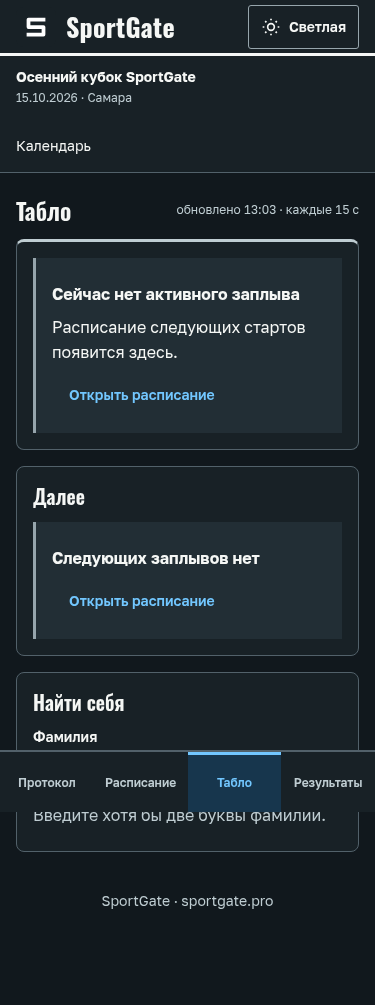
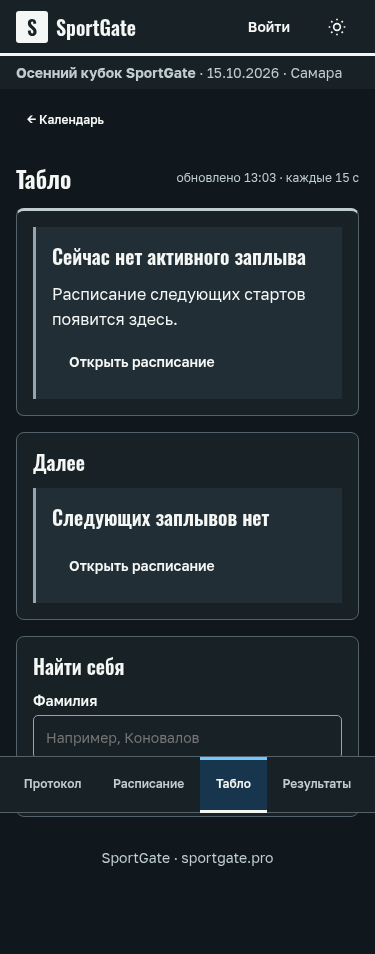
fix(public): address live board review and integrate shared shell

diff --git a/sport-platform/frontend/src/features/public/LivePage.module.css b/sport-platform/frontend/src/features/public/LivePage.module.css
@@ -1,8 +1,6 @@
 .page {
   color: var(--color-text);
   background: var(--surface-page);
-  max-width: calc(var(--space-16) * 15);
-  margin-inline: auto;
   min-width: 0;
 }
 .pageHeading,
@@ -253,15 +251,27 @@
 .delay {
   margin-bottom: var(--space-4);
 }
-.skeleton {
-  display: grid;
-  gap: var(--space-2);
+
+.page .athlete :global(abbr[tabindex]) {
+  display: inline-flex;
+  align-items: center;
+  min-width: var(--tap-target);
+  min-height: var(--tap-target);
 }
-.skeleton > div {
-  height: var(--control-h);
-  background: var(--surface-2);
-  border-radius: var(--radius-sm);
+
+.lanes.lanes thead :is(th:nth-child(2), th:nth-child(4)) {
+  text-align: start;
 }
+.stopwatch > span {
+  display: inline-flex;
+  align-items: baseline;
+  justify-content: flex-end;
+  line-height: var(--line-height-body);
+}
+.stopwatch > span > small {
+  line-height: var(--line-height-body);
+}
+
 @media (min-width: 768px) {
   .card {
     padding: var(--space-6);
@@ -288,6 +298,10 @@
   .lanes :is(th, td):nth-child(4) {
     width: 20%;
   }
+
+  .lanes .mobile {
+    display: none;
+  }
 }
 @media (min-width: 1024px) {
   .grid {
@@ -298,9 +312,6 @@
   }
 }
 @media (min-width: 1024px) and (max-height: 800px) {
-  .live {
-    padding: var(--space-4);
-  }
   .live .lanes :is(th, td) {
     padding-block: var(--space-1);
   }
@@ -308,13 +319,7 @@
     margin-block: var(--space-1) 0;
     font-size: var(--text-xs);
   }
-}
-@media (min-width: 768px) {
-  .lanes .mobile {
-    display: none;
-  }
-}
-@media (min-width: 1024px) and (max-height: 800px) {
+
   .live {
     display: grid;
     grid-template-columns: minmax(0, 1fr) auto;
@@ -349,8 +354,7 @@
     justify-self: start;
     margin: 0;
   }
-}
-@media (min-width: 1024px) and (max-height: 800px) {
+
   .live .lanes tbody :is(th, td) {
     padding-block: 0;
   }
@@ -359,7 +363,6 @@
     margin-inline-start: var(--space-1);
   }
 }
-
 @media (max-width: 1023px) {
   .sidebar {
     display: contents;
@@ -377,18 +380,6 @@
     order: 3;
   }
 }
-
-.page :global(.fl-btn.fl-btn-sm) {
-  min-height: var(--tap-target);
-  min-width: var(--tap-target);
-}
-.page .athlete :global(abbr[tabindex]) {
-  display: inline-flex;
-  align-items: center;
-  min-width: var(--tap-target);
-  min-height: var(--tap-target);
-}
-
 @media (max-width: 767px) {
   .lanes,
   .lanes thead,
@@ -397,7 +388,7 @@
   }
   .lanes tr {
     display: grid;
-    grid-template-columns: var(--space-12) minmax(0, 1fr) calc(
+    grid-template-columns: var(--space-12) auto minmax(0, 1fr) calc(
         var(--space-12) * 2
       );
   }
@@ -416,7 +407,7 @@
     align-self: center;
   }
   .lanes .participant {
-    grid-column: 2;
+    grid-column: 2 / 4;
     grid-row: 1;
   }
   .lanes.lanes .year {
@@ -431,38 +422,21 @@
     content: ' ·';
   }
   .lanes.lanes .club {
-    grid-column: 2;
+    grid-column: 3;
     grid-row: 2;
-    margin-inline-start: var(--space-10);
     color: var(--color-text-muted);
     font-size: var(--text-xs);
     overflow-wrap: anywhere;
   }
   .lanes .stopwatch {
-    grid-column: 3;
+    grid-column: 4;
     grid-row: 1 / 3;
     align-self: center;
   }
-  .lanes.lanes thead th:nth-child(2) {
-    text-align: left;
+  .lanes thead th:nth-child(2) {
+    grid-column: 2 / 4;
   }
-}
-
-@media (max-width: 767px) {
-  .stopwatch > span {
-    display: inline-flex;
-    align-items: flex-start;
-    justify-content: flex-end;
-    line-height: var(--line-height-body);
-  }
-  .stopwatch > span > small {
-    line-height: var(--line-height-body);
-  }
-}
-@media (max-width: 767px) {
-  .stopwatch :global(abbr) {
-    display: inline-block;
-    text-align: right;
-    line-height: normal;
+  .lanes thead th:last-child {
+    grid-column: 4;
   }
 }

diff --git a/sport-platform/frontend/src/features/public/LivePage.test.tsx b/sport-platform/frontend/src/features/public/LivePage.test.tsx
@@ -46,7 +46,7 @@ describe('Public live', () => {
       </MemoryRouter>,
     )
     expect(
-      screen.getByRole('heading', { name: 'Сейчас заплыв №1' }),
+      screen.getByRole('heading', { name: 'Сейчас заплыв №1 из 2' }),
     ).toBeInTheDocument()
     expect(screen.getByText(/Вид № 1 · 50 м/)).toBeInTheDocument()
     expect(screen.getAllByRole('row')).toHaveLength(9)
@@ -186,8 +186,8 @@ describe('Public live', () => {
     )
     expect(screen.getByText(/Вид № 1 · 50 м/)).toBeInTheDocument()
     expect(
-      screen.getByRole('heading', { name: 'Сейчас заплыв №1' }),
-    ).toBeInTheDocument()
+      screen.getByRole('heading', { name: 'Сейчас заплыв №1 из 2' }),
+    ).toHaveTextContent('Заплыв 1 из 2')
   })
 
   it('handles an empty current heat without displaying made-up results', () => {
@@ -225,7 +225,7 @@ describe('Public live', () => {
     const { unmount } = render(<PollingBoard />)
     await vi.waitFor(() =>
       expect(
-        screen.getByRole('heading', { name: 'Сейчас заплыв №1' }),
+        screen.getByRole('heading', { name: 'Сейчас заплыв №1 из 2' }),
       ).toBeInTheDocument(),
     )
     await act(async () => {
@@ -233,7 +233,7 @@ describe('Public live', () => {
     })
     await vi.waitFor(() =>
       expect(
-        screen.getByRole('heading', { name: 'Сейчас заплыв №2' }),
+        screen.getByRole('heading', { name: 'Сейчас заплыв №2 из 2' }),
       ).toBeInTheDocument(),
     )
     expect(calls).toBe(2)
@@ -277,7 +277,7 @@ describe('Public live', () => {
     render(<PollingBoard />)
     await vi.waitFor(() =>
       expect(
-        screen.getByRole('heading', { name: 'Сейчас заплыв №1' }),
+        screen.getByRole('heading', { name: 'Сейчас заплыв №1 из 2' }),
       ).toBeInTheDocument(),
     )
     await act(async () => {
@@ -287,7 +287,7 @@ describe('Public live', () => {
       expect(screen.getByRole('alert')).toHaveTextContent('Нет связи'),
     )
     expect(
-      screen.getByRole('heading', { name: 'Сейчас заплыв №1' }),
+      screen.getByRole('heading', { name: 'Сейчас заплыв №1 из 2' }),
     ).toBeInTheDocument()
   })
 

diff --git a/sport-platform/frontend/e2e/qa06-regression.spec.ts b/sport-platform/frontend/e2e/qa06-regression.spec.ts
@@ -278,13 +278,18 @@ for (const route of ['start-list', 'live']) {
     const times = page.locator('.fl-lanes tbody td:last-child')
     await expect(times.first()).toBeVisible()
     await page.evaluate(() => document.fonts.ready)
-    const lines = await page.locator('.fl-lanes tbody td:nth-child(3), .fl-lanes tbody td:last-child').evaluateAll(cells =>
+    const lines = await page.locator('.fl-lanes tbody td:nth-child(3), .fl-lanes tbody td:last-child').evaluateAll((cells, currentRoute) =>
       cells.map(cell => {
         const range = document.createRange()
         range.selectNodeContents(cell)
-        const tops = Array.from(range.getClientRects()).filter(rect => rect.height > 0).map(rect => Math.round(rect.top))
-        return { text: cell.textContent, lines: new Set(tops).size }
-      }),
+        const rects = Array.from(range.getClientRects()).filter(rect => rect.height > 0)
+        const tops = rects.map(rect => Math.round(rect.top))
+        // Mixed font sizes on one baseline have different tops but overlap vertically.
+        const liveLine = currentRoute === 'live' && rects.length > 0
+          ? (Math.max(...rects.map(rect => rect.top)) < Math.min(...rects.map(rect => rect.bottom)) ? 1 : 2)
+          : new Set(tops).size
+        return { text: cell.textContent, lines: liveLine }
+      }), route,
     )
     expect(lines.length).toBeGreaterThanOrEqual(16)
     expect(lines.filter(cell => cell.lines !== 1)).toEqual([])

diff --git a/sport-platform/frontend/src/features/public/Review.test.tsx b/sport-platform/frontend/src/features/public/Review.test.tsx
@@ -110,7 +110,7 @@ it('keeps loaded live data with a single polling error message', async () => {
   renderPage(<LivePage />)
   await vi.waitFor(() =>
     expect(
-      screen.getByRole('heading', { name: 'Сейчас заплыв №1' }),
+      screen.getByRole('heading', { name: 'Сейчас заплыв №1 из 2' }),
     ).toBeInTheDocument(),
   )
   await act(async () => {
@@ -119,7 +119,7 @@ it('keeps loaded live data with a single polling error message', async () => {
   await vi.waitFor(() => expect(screen.getAllByRole('alert')).toHaveLength(1))
   expect(screen.getAllByText(/Показаны последние данные/)).toHaveLength(1)
   expect(
-    screen.getByRole('heading', { name: 'Сейчас заплыв №1' }),
+    screen.getByRole('heading', { name: 'Сейчас заплыв №1 из 2' }),
   ).toBeInTheDocument()
 })
 

diff --git a/sport-platform/frontend/src/features/public/LivePage.tsx b/sport-platform/frontend/src/features/public/LivePage.tsx
@@ -125,7 +125,7 @@ export function LiveBoard({
               </p>
               <h2
                 className={styles.heatTitle}
-                aria-label={`${finished ? 'Завершён' : 'Сейчас'} заплыв №${live.currentUnit.number}`}
+                aria-label={`${finished ? 'Завершён' : 'Сейчас'} заплыв №${live.currentUnit.number}${current?.total ? ` из ${current.total}` : ''}`}
               >
                 <span className={styles.heatNumber}>
                   Заплыв {live.currentUnit.number}
@@ -479,7 +479,7 @@ export function LivePage() {
       </div>
       {live.loading && (
         <section
-          className={`${styles.card} ${styles.skeleton}`}
+          className={`${styles.card} fl-skeleton`}
           role="status"
           aria-label="Загружаем табло"
         >

diff --git a/sport-platform/frontend/src/features/public/LiveLanes.tsx b/sport-platform/frontend/src/features/public/LiveLanes.tsx
@@ -36,7 +36,8 @@ export function LiveLanes({ heat, lanes }: { heat: Heat; lanes: number }) {
                 Клуб
               </th>
               <th scope="col" data-numeric>
-                Время
+                <span className={styles.desktop}>Заявочное время</span>
+                <span className={styles.mobile}>Заяв. время</span>
               </th>
             </tr>
           </thead>
